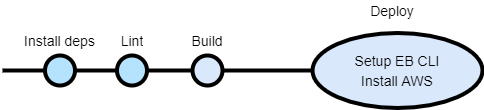
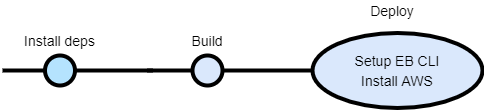
Update docs

Changed region(s): [[0.2169, 0.4636, 0.3099, 0.8182], [0.2479, 0.3273, 0.3099, 0.4364]]

diff --git a/README.md b/README.md
@@ -11,12 +11,17 @@
 - Backend: [http://udagram-api.us-east-1.elasticbeanstalk.com/](http://udagram-api.us-east-1.elasticbeanstalk.com/)
 - Frontend: [http://udagram-web-hosting.s3-website-us-east-1.amazonaws.com](http://udagram-web-hosting.s3-website-us-east-1.amazonaws.com)
 
-## Infrastructure & Architecture
+## Infrastructure
 
 Please refer to [docs/infra.md](./docs/infra.md) to check the infrastructure documentation
 
+## Pipeline
 
+Please refer to [docs/pipe.md](./docs/pipe.md) to check the pipeline documentation
 
+## Dependencies
+
+Please refer to [docs/deps.md](./docs/deps.md) to check the application dependencies
 
 
 ## Screenshots

diff --git a/docs/pipe.md b/docs/pipe.md
@@ -17,7 +17,6 @@ The pipeline is first initiated on each push to the `master` branch.
 Once initiated the following sequence is run:
 
 1. Dependencies are installed
-1. The project is linted, if any errors appear, we exit the pipeline
 2. The project is build, if any errors appear, we exit the pipeline
 3. The project is deployed
 
